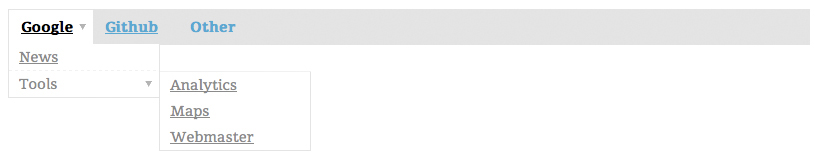
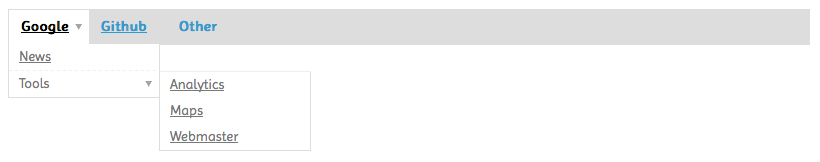
Added preview image to documentation
Updated preview image screenshot

diff --git a/README.html b/README.html
@@ -11,6 +11,8 @@
 
 <p>Create a HTML navigation menu and sub-menus from JSON with ease.</p>
 
+<img class="preview" src="preview.jpg">
+
 <h2>Features</h2>
 
 <ul>
